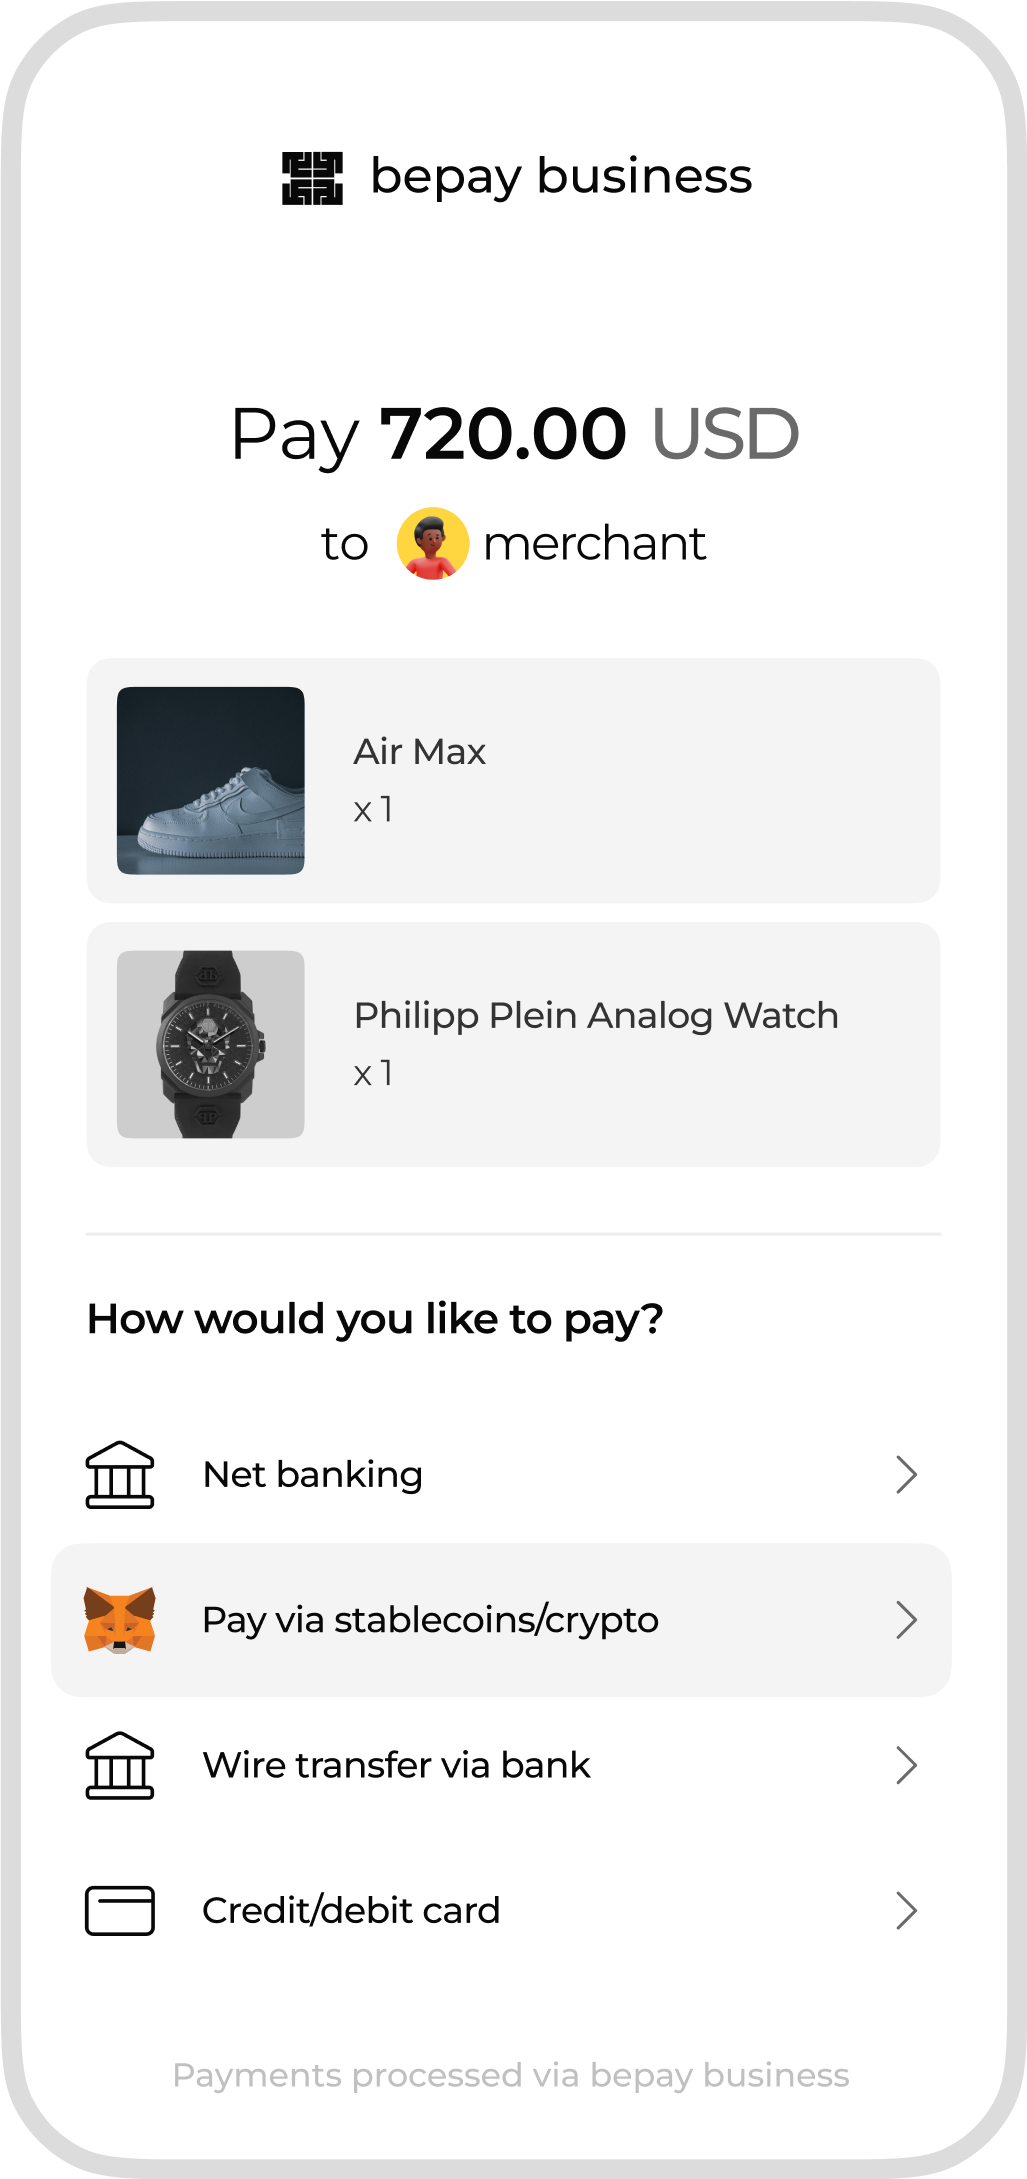
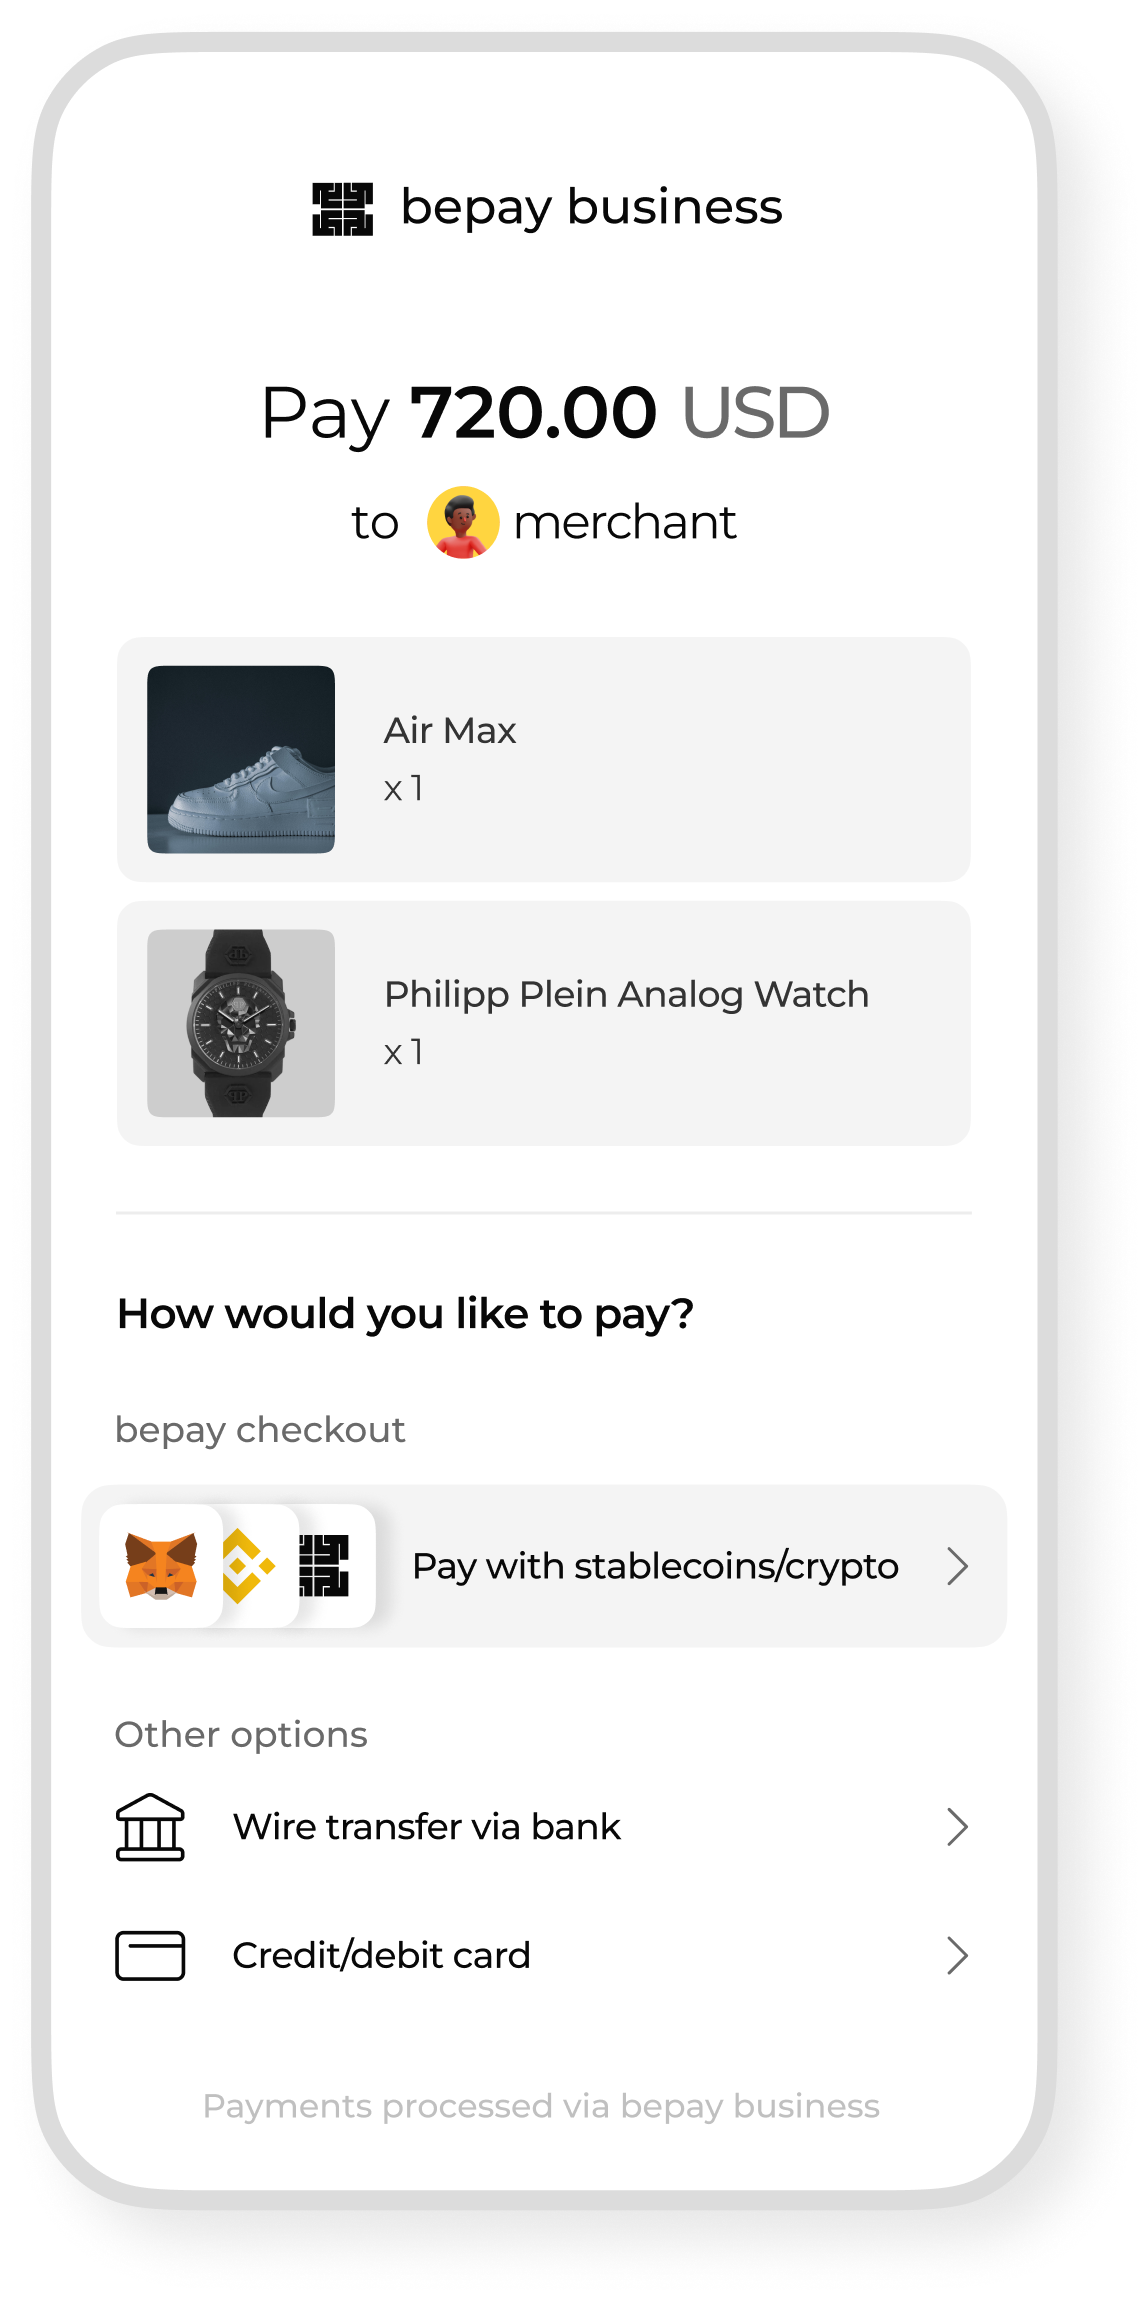
hero section mockup and crypto section mockups changed

diff --git a/components/business/get-started-section.jsx b/components/business/get-started-section.jsx
@@ -203,7 +203,6 @@ export default function GetStartedSection() {
         </div>
 
         <div className="grid lg:grid-cols-2 gap-8 lg:gap-20 items-center w-full max-w-7xl mt-4">
-          {/* ✅ MODIFIED: Pushed mockup further left on desktop by increasing negative margin */}
           <div className="relative flex justify-center lg:justify-end lg:mr-20 order-2 lg:order-1">
             <div className="relative w-full max-w-[340px] sm:max-w-[380px] lg:max-w-[420px] h-[58vh] sm:h-[70vh] lg:h-[80vh] max-h-[800px]">
               <AnimatePresence initial={false} custom={direction}>
@@ -234,10 +233,9 @@ export default function GetStartedSection() {
             </div>
           </div>
 
-          {/* ✅ MODIFIED: Changed lg:items-start to lg:items-center to center the content block */}
-          <div className="relative flex flex-col items-center lg:items-center justify-center order-1 lg:order-2">
-            {/* ✅ MODIFIED: Changed lg:text-left to lg:text-center */}
-            <div className="relative w-full max-w-lg min-h-[150px] sm:min-h-[200px] text-center lg:text-center">
+          <div className="relative flex flex-col items-center lg:items-start justify-center order-1 lg:order-2">
+            {/* ✅ MODIFIED: Changed lg:text-center to lg:text-left */}
+            <div className="relative w-full max-w-lg min-h-[150px] sm:min-h-[200px] text-center lg:text-left">
               <div className="absolute top-1/2 left-1/2 transform -translate-x-1/2 -translate-y-1/2 z-0">
                 <AnimatePresence initial={false} mode="wait">
                   <motion.div
@@ -266,8 +264,8 @@ export default function GetStartedSection() {
                   initial="enter"
                   animate="center"
                   exit="exit"
-                  /* ✅ MODIFIED: Changed lg:items-start to lg:items-center to center the title/subtitle flex items */
-                  className="w-full z-10 absolute top-1/2 left-1/2 transform -translate-x-1/2 -translate-y-[40%] lg:-translate-y-[30%] flex flex-col items-center lg:items-center justify-center gap-2"
+                  /* ✅ MODIFIED: Changed lg:items-center to lg:items-start to left-align the title/subtitle flex items */
+                  className="w-full z-10 absolute top-1/2 left-1/2 transform -translate-x-1/2 -translate-y-[40%] lg:-translate-y-[30%] flex flex-col items-center lg:items-start justify-center gap-2"
                 >
                   <motion.div variants={contentVariants}>
                     <h3 className={`text-2xl font-medium leading-none tracking-[-0.04em] text-[#333333] sm:text-4xl md:text-5xl lg:text-[44px] lg:text-[#6A6A6A] lg:leading-none mb-6 lg:mb-7 ${currentStepData.id === 1 ? 'lg:whitespace-nowrap' : ''}`}>
@@ -280,9 +278,10 @@ export default function GetStartedSection() {
 
                   {currentStepData.rightButtons && (
                     <motion.div
-                       className={`w-full flex justify-center lg:block -mt-4 lg:mt-4 ${
-    currentStepData.id === 3 ? "lg:-translate-y-5  lg:translate-x-25" : ""
-  }`}
+                      /* ✅ MODIFIED: Changed justify-center to justify-start and removed translate-x for desktop */
+                      className={`w-full flex justify-center lg:justify-start -mt-4 lg:mt-4 ${
+                        currentStepData.id === 3 ? "lg:-translate-y-5" : ""
+                      }`}
                       variants={mobileButtonVariants}
                     >
                       {currentStepData.rightButtons}

diff --git a/components/business/compliance-section.jsx b/components/business/compliance-section.jsx
@@ -103,7 +103,8 @@ export default function ComplianceSection() {
                 zIndex: complianceData.length - index,
               }}
             >
-              <div className="flex items-center gap-4 lg:gap-6 mb-8">
+              {/* This parent div is now relative to position the mobile flag */}
+              <div className="flex items-center gap-4 lg:gap-6 mb-8 relative">
                 <div className="flex-shrink-0">
                   <Image
                     src={item.icon}
@@ -116,6 +117,16 @@ export default function ComplianceSection() {
                 <h3 className="text-3xl lg:text-[60px] 3xl:text-[80px] font-[500] text-[#6A6A6A] leading-tight">
                   {item.title}
                 </h3>
+                {/* Mobile-only flag image */}
+                {item.title === "Licensed" && (
+                  <Image
+                    src="/flags.png"
+                    alt="Flag"
+                    width={45}
+                    height={40}
+                    className="absolute top-[29%] right-[5%] pointer-events-none lg:hidden"
+                  />
+                )}
               </div>
               <div
                 className={`${
@@ -136,14 +147,14 @@ export default function ComplianceSection() {
                 </div>
               </div>
 
-              {/* Conditionally add the flag image to the "Licensed" card, only for desktop */}
+              {/* Desktop-only flag image */}
               {item.title === "Licensed" && (
                 <Image
                   src="/flags.png"
                   alt="Flag"
                   width={70}
                   height={63}
-                  className="absolute bottom-8 right-8 lg:bottom-12 lg:right-12 pointer-events-none hidden lg:block" // ADDED: hidden and lg:block
+                  className="absolute bottom-8 right-8 lg:bottom-12 lg:right-12 pointer-events-none hidden lg:block"
                 />
               )}
             </motion.div>

diff --git a/components/business/BusinessHero.jsx b/components/business/BusinessHero.jsx
@@ -456,21 +456,21 @@ const BusinessHero = () => {
                       >
                         <div
                           onClick={handleLogoClick}
-                          className="absolute -top-3 left-1/2 -translate-x-1/2 z-10 cursor-pointer"
+                          className="absolute top-1 left-1/2 -translate-x-1/2 z-10 cursor-pointer"
                         >
                           <Image
                             src="/bepaybusiness.svg"
                             alt="Bepay Logo"
                             width={200}
                             height={100}
-                            className="w-[40px] h-[40px] md:w-[120px] lg:h-[100px] object-contain"
+                            className="w-[45px] h-[45px] md:w-[140px] lg:h-[125px] object-contain"
                           />
                         </div>
 
                         {/* ✅ MODIFICATION: Added imageScale to the style prop */}
                         <motion.div
                           style={{ x: imageX, opacity: imageOpacity, scale: imageScale }}
-                          className="absolute inset-0 -top-55"
+                          className="absolute inset-0 -top-30"
                         >
                           <Image
                             src="/s1_6.png"

diff --git a/components/business/HowCryptoMake.jsx b/components/business/HowCryptoMake.jsx
@@ -16,13 +16,13 @@ const stepsData = [
     id: 1,
     image: "/images/business/mocup1.png",
     alt: "Bepay crypto payment interface",
-    text: "Customer selects bepay wallet at checkout",
+    text: "Customer selects stablecoins/crypto at checkout",
   },
   {
     id: 2,
     image: "/images/business/mocup2.png",
     alt: "Bepay QR code interface",
-    text: "bepay generates a QR code or token address",
+    text: "bepay generates a QR code & token address",
   },
   {
     id: 3,
@@ -403,7 +403,7 @@ export default function HowCryptoWorksSection() {
               </div>
             </motion.div>
             <motion.div
-              className="absolute left-[10%] top-[200px] translate-y-1/2 z-20"
+              className="absolute left-[7%] top-[200px] translate-y-1/2 z-20"
               style={{ opacity: desktopContent1Opacity, y: desktopContent1Y }}
             >
               <div className="p-4 max-w-[400px]">

diff --git a/components/trusted-by-section.jsx b/components/trusted-by-section.jsx
@@ -175,9 +175,9 @@ export default function TrustedBySection() {
             <Image
               src="/trusted.png"
               alt="A collage of industry-leading brands supported by bepay"
-              width={1000}
+              width={1100}
               height={100}
-              className="h-auto w-full object-contain opacity-90 -mb-15"
+              className="h-auto w-full object-contain opacity-90 -mb-20"
             />
           </motion.div>
         </motion.div>
